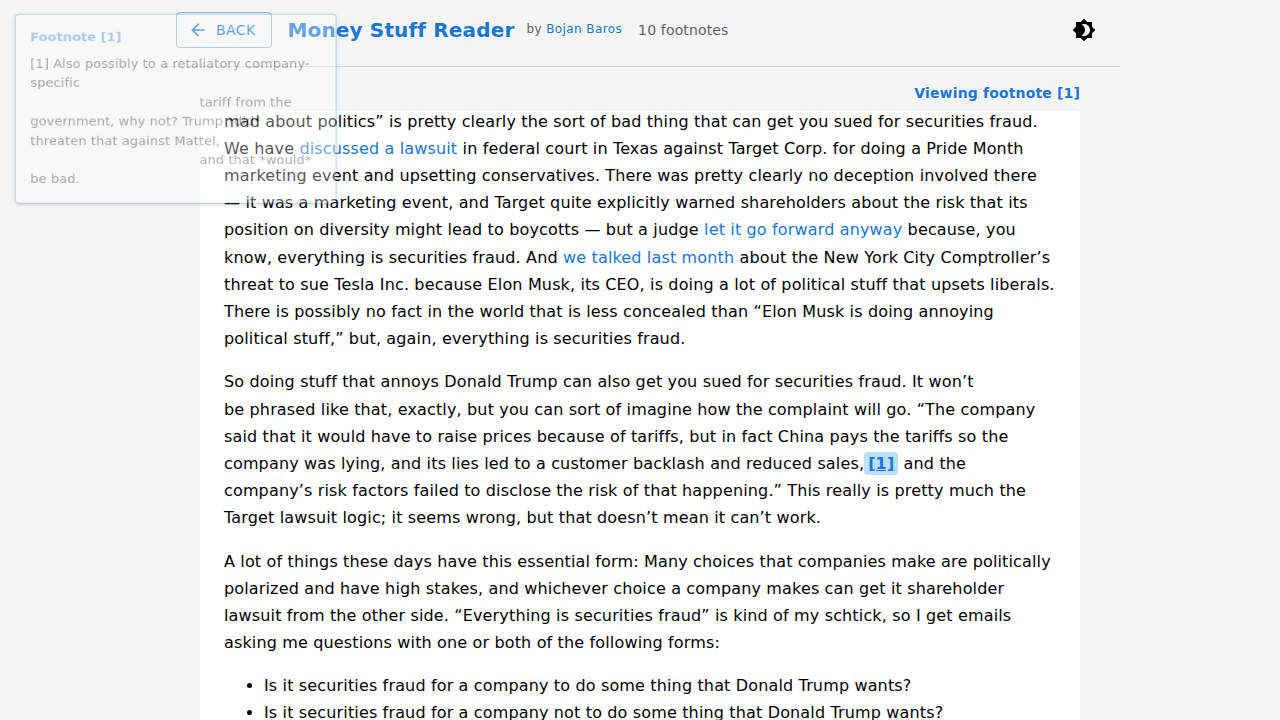
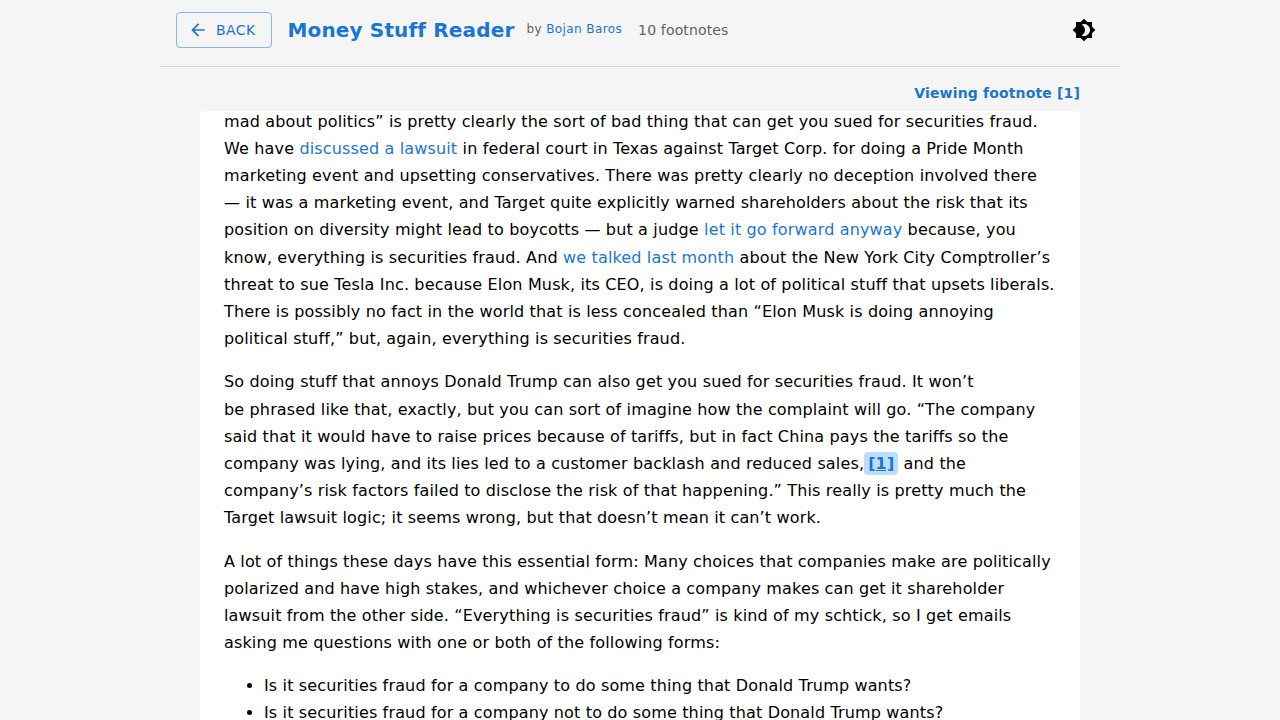
Fix footnote popup position
The popup was appearing at the top left of the screen, far from the footnote link, due to a fixed position being set on the Popover component.

This change removes the fixed positioning, allowing the `anchorEl` to correctly position the popup under the footnote link.

diff --git a/src/components/EmailMainContent.tsx b/src/components/EmailMainContent.tsx
@@ -186,11 +186,11 @@ const EmailMainContent: React.FC<EmailMainContentProps> = ({
                     onClose={handlePopoverClose}
                     anchorOrigin={{
                         vertical: 'bottom',
-                        horizontal: 'left',
+                        horizontal: 'center',
                     }}
                     transformOrigin={{
                         vertical: 'top',
-                        horizontal: 'left',
+                        horizontal: 'center',
                     }}
                     PaperProps={{
                         sx: {
@@ -200,6 +200,10 @@ const EmailMainContent: React.FC<EmailMainContentProps> = ({
                             borderColor: 'primary.main',
                             boxShadow: 3,
                         }
+                    }}
+                    style={{
+                        top: 'auto',
+                        left: 'auto',
                     }}
                 >
                     <Typography variant="subtitle2" sx={{ fontWeight: 'bold', color: 'primary.main', mb: 1 }}>
